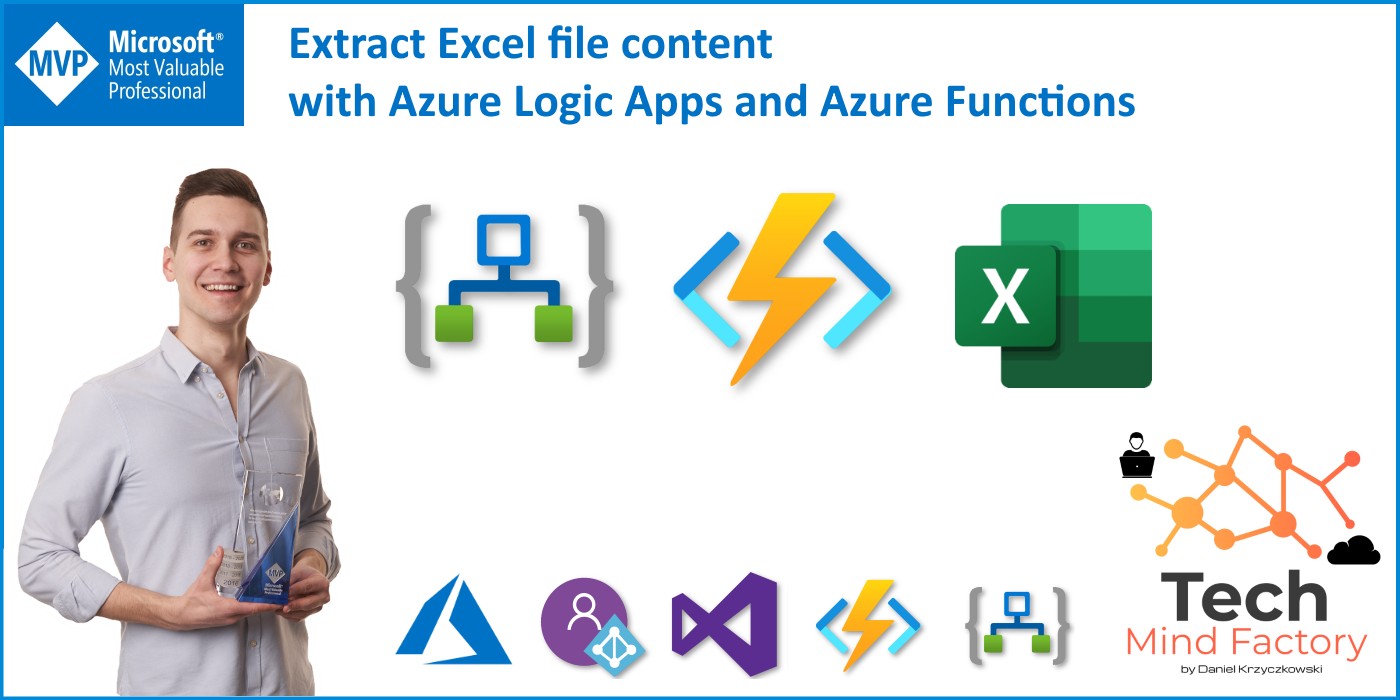
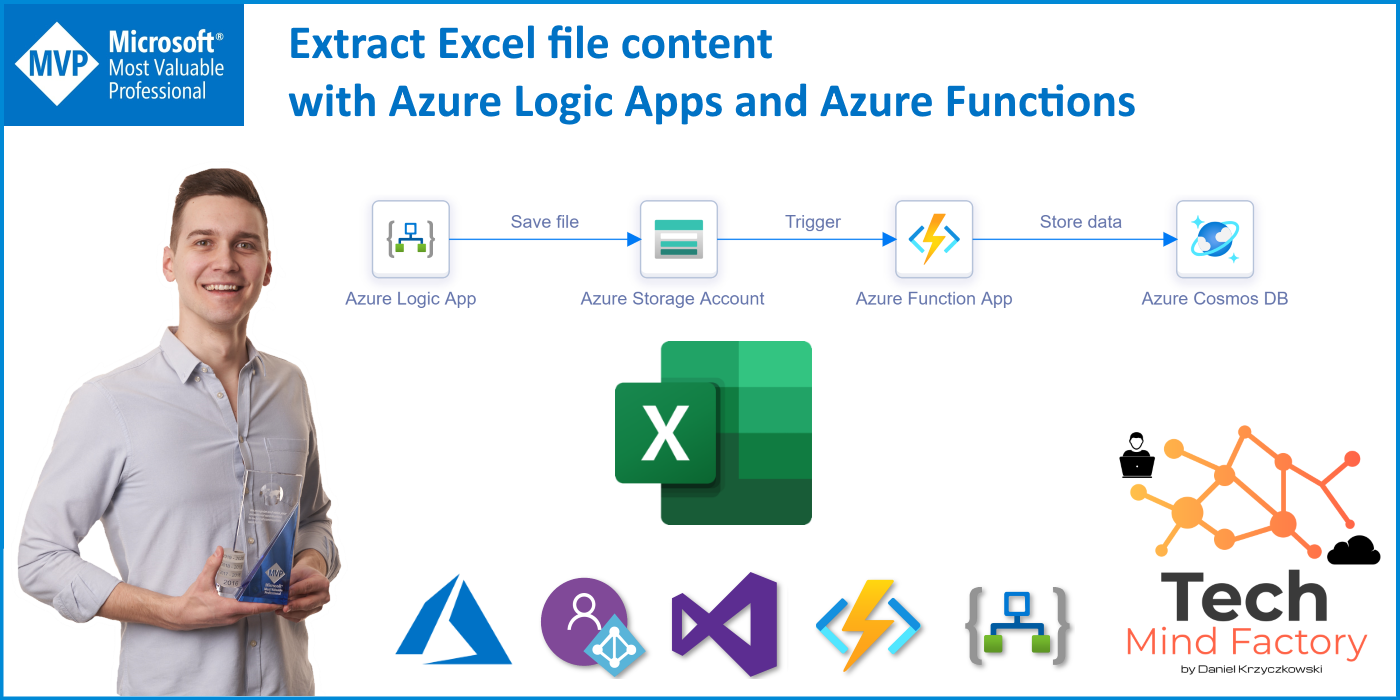
Add excel file content extractor article

Changed region(s): [[0.2457, 0.27, 0.9214, 0.75]]

diff --git a/_posts/2020-09-14-Extract-Excel-file-content-with-Azure-Logic-Apps-and-Azure-Functions.md b/_posts/2020-09-14-Extract-Excel-file-content-with-Azure-Logic-Apps-and-Azure-Functions.md
@@ -1,0 +1,151 @@
+---
+title: "Extract Excel file content with Azure Logic Apps and Azure Functions"
+excerpt: "This article presents how to use Azure Logic Apps and Azure Functions to extract content from the Excel files"
+header:
+  image: /images/devisland/article42/assets/ExcelContentExtractionWithAzure1.png
+---
+
+<p align="center">
+<img src="/images/devisland/article42/assets/ExcelContentExtractionWithAzure1.png?raw=true" alt="Extract Excel file content with Azure Logic Apps and Azure Functions"/>
+</p>
+
+# Introduction
+
+Extracting file content in Azure sounds like an easy topic. Let's talk about specific scenario - extracting content from the Excel files. If email is received with Excel file as attachment, we would like to get this content and process it. How to do it? Especially when there is a need to support older file format (xls) and new one (xlsx)? In this article we will go through the implementaton of solution responsible for automated extraction of the contnet from Excel files using Azure Logic Apps and Azure Function Apps. At the end we are goind to store extracted data in the Azure Cosmos DB. Code of this article is available on my GitHub [here](https://github.com/Daniel-Krzyczkowski/MicrosoftAzure/tree/master/excel-file-content-extractor).
+
+Below diagram presents the flow:
+
+1. Email with Excel file as attachment is received
+2. Excel file is stored on the Azure Blog Storage
+3. Azure Function is triggered and Excel file is extracted
+4. Extracted data is stored in the Azure Cosmos DB
+
+<p align="center">
+<img src="/images/devisland/article42/assets/ExcelContentExtractionWithAzure2.png?raw=true" alt="Image not found"/>
+</p>
+
+
+# Azure Logic App implementation
+
+We are going to start with Azure Logic App implementation. In this scenario we want to trigger Logic App when new email with attachment is received. Then we want to store this file on the Blob Storage to make it available for the Azure Function. Here is the flow of the Azure Logic App:
+
+<p align="center">
+<img src="/images/devisland/article42/assets/ExcelContentExtractionWithAzure3.PNG?raw=true" alt="Image not found"/>
+</p>
+
+Once Excel file is received, we can extract its content using Azure Function App.
+
+
+
+# Azure Function App implementation
+
+We need to create Blob Trigger Function App to react always when there is new file created on the Azure Blob Storage.
+
+<p align="center">
+<img src="/images/devisland/article42/assets/ExcelContentExtractionWithAzure4.PNG?raw=true" alt="Image not found"/>
+</p>
+
+## Excel file content extraction
+
+To extract the content, we are going to use *NPOI* library available as [NuGet package](https://www.nuget.org/packages/NPOI/). With this library we can read both - older version of the Excel file (XLS) and the new one (XLSX).
+
+
+```csharp
+    public class ExcelFileContentExtractorService : IExcelFileContentExtractorService
+    {
+        public ExcelFileRawDataModel GetFileContent(Stream fileStream)
+        {
+            IDictionary<string, string> cellValues = new Dictionary<string, string>();
+            IWorkbook workbook = WorkbookFactory.Create(fileStream);
+            ISheet reportSheet = workbook.GetSheetAt(0);
+
+            if (reportSheet != null)
+            {
+                int rowCount = reportSheet.LastRowNum + 1;
+                for (int i = 0; i < rowCount; i++)
+                {
+                    IRow row = reportSheet.GetRow(i);
+                    if (row != null)
+                    {
+                        foreach (var cell in row.Cells)
+                        {
+                            var cellValue = cell.GetFormattedCellValue();
+                            if (!string.IsNullOrEmpty(cellValue))
+                            {
+                                cellValues.Add(cell.Address.FormatAsString(), cellValue);
+                            }
+                        }
+                    }
+                }
+            }
+
+            return new ExcelFileRawDataModel()
+            {
+                Id = cellValues["A6"],
+                CarBrand = cellValues["B6"],
+                CarModel = cellValues["C6"],
+                CarPrice = decimal.Parse(cellValues["D6"]),
+                CarAvailability = int.Parse(cellValues["E6"])
+            };
+        }
+    }
+```
+
+Please note that we can extract data from specific rows and columns.
+
+
+## Integration with Azure Cosmos DB
+
+Once we got data extracted from the file, we can store in the Azure Cosmos DB (or any other database). Then we can use data in any other systems. To connect with Azure Cosmos DB I used new SDK:
+
+```csharp
+    public sealed class CosmosDbDataService<T> : IDataService<T> where T : class, IEntity
+    {
+        private readonly ICosmosDbDataServiceConfiguration _dataServiceConfiguration;
+        private readonly CosmosClient _client;
+        private readonly ILogger<CosmosDbDataService<T>> _logger;
+
+        public CosmosDbDataService(ICosmosDbDataServiceConfiguration dataServiceConfiguration,
+                                   CosmosClient client,
+                                   ILogger<CosmosDbDataService<T>> logger)
+        {
+            _dataServiceConfiguration = dataServiceConfiguration;
+            _client = client;
+            _logger = logger;
+        }
+
+        public async Task<T> AddAsync(T newEntity)
+        {
+            try
+            {
+                var container = GetContainer();
+                ItemResponse<T> createResponse = await container.CreateItemAsync(newEntity);
+                return createResponse.Value;
+            }
+            catch (CosmosException ex)
+            {
+                _logger.LogError($"New entity with ID: {newEntity.Id} was not added successfully - error details: {ex.Message}");
+                throw;
+            }
+        }
+
+
+        private CosmosContainer GetContainer()
+        {
+            var database = _client.GetDatabase(_dataServiceConfiguration.DatabaseName);
+            var container = database.GetContainer(_dataServiceConfiguration.ContainerName);
+            return container;
+        }
+    }
+```
+
+Here is the sample data extracted, visible in the Azure Cosmos DB Data Explorer:
+
+<p align="center">
+<img src="/images/devisland/article42/assets/ExcelContentExtractionWithAzure5.PNG?raw=true" alt="Image not found"/>
+</p>
+
+
+# Summary
+
+In this article we went through the topic on how to extract data from the Excel files. It can be really helpful especially when we need to analyze some figures from the reports.
